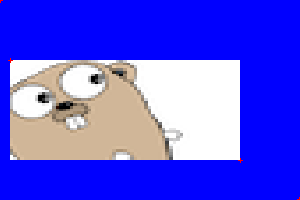
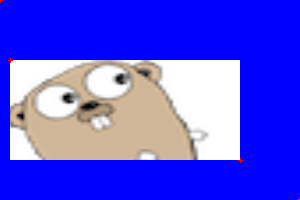
go.mobile/gl/glutil: use correct image bounds in translation
I have included the gl.LINEAR bugfix here as it changes the
images substantially.

Based on Nigel's excellent analysis in cl/160710043.

LGTM=nigeltao
R=nigeltao
CC=golang-codereviews
https://golang.org/cl/168820043

Changed region(s): [[0.03, 0.3, 0.72, 0.81]]

diff --git a/gl/glutil/glimage.go b/gl/glutil/glimage.go
@@ -90,7 +90,6 @@ func NewImage(size geom.Point) *Image {
 	// runtime.SetFinalizer(img, func(img *Image) { gl.DeleteTexture(img.Texture) })
 	gl.BindTexture(gl.TEXTURE_2D, img.Texture)
 	gl.TexImage2D(gl.TEXTURE_2D, 0, dx, dy, gl.RGBA, gl.UNSIGNED_BYTE, nil)
-
 	gl.TexParameteri(gl.TEXTURE_2D, gl.TEXTURE_MAG_FILTER, gl.LINEAR)
 	gl.TexParameteri(gl.TEXTURE_2D, gl.TEXTURE_MIN_FILTER, gl.LINEAR)
 	gl.TexParameteri(gl.TEXTURE_2D, gl.TEXTURE_WRAP_S, gl.CLAMP_TO_EDGE)
@@ -206,8 +205,8 @@ func (img *Image) Draw(dstBounds geom.Rectangle, srcBounds image.Rectangle) {
 	a.Identity()
 	a.Translate(
 		&a,
-		float32(srcBounds.Min.X)/float32(img.Rect.Dx()),
-		float32(srcBounds.Min.Y)/float32(img.Rect.Dy()),
+		float32(srcBounds.Min.X)/float32(img.texWidth),
+		float32(srcBounds.Min.Y)/float32(img.texHeight),
 	)
 	a.Scale(
 		&a,
@@ -218,8 +217,6 @@ func (img *Image) Draw(dstBounds geom.Rectangle, srcBounds image.Rectangle) {
 
 	gl.ActiveTexture(gl.TEXTURE0)
 	gl.BindTexture(gl.TEXTURE_2D, img.Texture)
-	gl.TexParameteri(gl.TEXTURE_2D, gl.TEXTURE_MAG_FILTER, gl.NEAREST)
-	gl.TexParameteri(gl.TEXTURE_2D, gl.TEXTURE_MIN_FILTER, gl.NEAREST)
 	gl.Uniform1i(glimage.textureSample, 0)
 
 	gl.BindBuffer(gl.ARRAY_BUFFER, glimage.quadXY)
